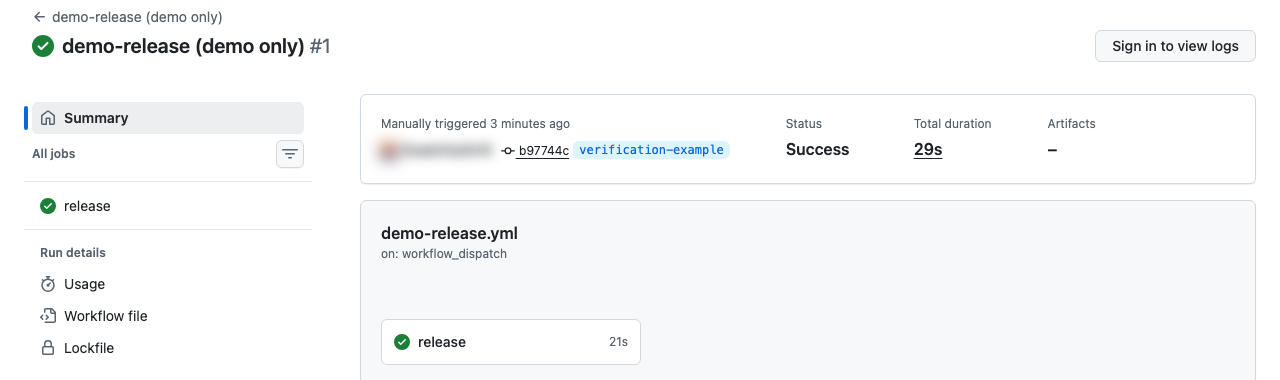
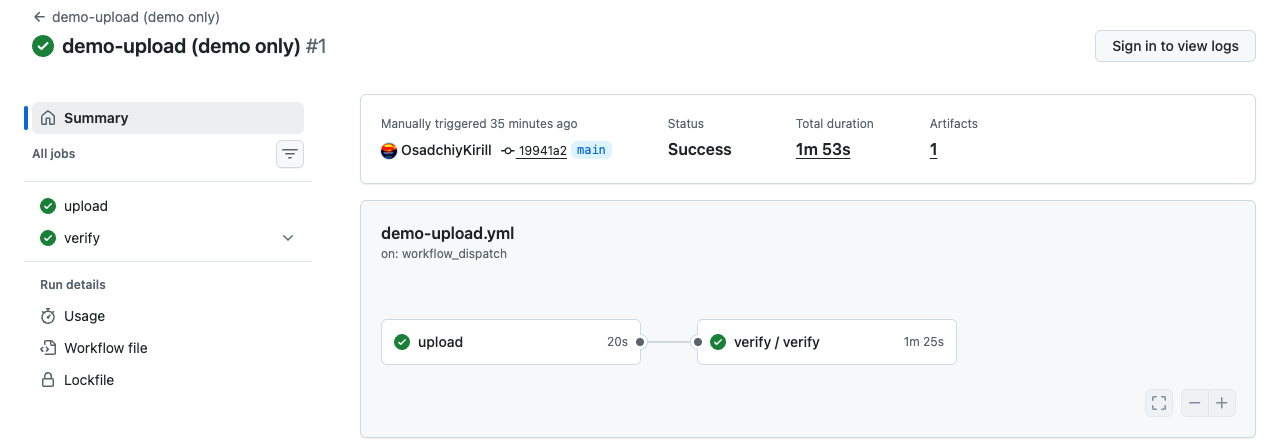
verification-example: job names with the diagram numbers, Not needed (Start A), Start A ran on GitHub
After the first real Start A through workflow_call (fork run 42186715298, 06.11: Service version 4.11.3 uploaded and Verified in 1 min 53 s).
Job names read with the diagram numbers: "1–3 Upload a new demo Service version", "4 Start A: verify-batch", "5–7 Wait, test, decide".
Upload summary: no link to the same run. Report, scenario 4: "Not needed (Start A)".
FAQ Limits: Start A through workflow_call ran on GitHub on 06.11.2026. TRY_IT: steps 4 and 5 with the job names and the measured times.

diff --git a/verification-example/tests/test_verify_batch.py b/verification-example/tests/test_verify_batch.py
@@ -1318,11 +1318,14 @@ def test_the_status_column_has_only_the_four_values(tmp_path):
 @pytest.mark.parametrize('found_by, says, status', [
     ('watch', 'found by the watch in GitHub', 'Checked now'),
     ('run', 'found by ./aos-verify on this computer', 'Checked now'),
-    ('version', 'not needed: started with the Service version', 'Not run')])
+    ('version', 'started with the Service version, so nothing had to find the Verification batch',
+     'Not needed \\(Start A\\)')])
 def test_the_report_says_who_found_the_batch(tmp_path, found_by, says, status):
     write_report(tmp_path, found_by=found_by)
     page = (tmp_path / 'r/report.html').read_text(encoding='utf-8')
     assert says in page and re.search(f'<td>Found automatically \\(discover\\)</td><td><span[^>]*>{status}</span>', page)
+    if found_by == 'version':
+        assert '<span class="s skip">Not needed (Start A)</span>' in page
 
 
 @pytest.mark.parametrize('decision, more, says', [
@@ -1929,8 +1932,8 @@ def test_demo_upload_is_manual_and_says_demo_only():
     assert 'name: demo-upload (demo only)' in text and text.startswith('#') and 'DEMO ONLY' in text.splitlines()[0]
     assert 'aos-signer==2.0.2' in text and 'gh workflow run' not in text and 'actions: write' not in text
     assert 'batch_id' not in workflow_step('d. Say', DEMO) and 'secrets.' not in workflow_step('d. Say', DEMO)
-    assert '$GITHUB_SERVER_URL/$GITHUB_REPOSITORY/actions/runs/$GITHUB_RUN_ID' in workflow_step('d. Say', DEMO)
-    assert 'The decision is in that job' in workflow_step('d. Say', DEMO)
+    assert 'actions/runs' not in workflow_step('d. Say', DEMO)
+    assert 'verify-batch runs next in this run (Start A); its report follows below.' in workflow_step('d. Say', DEMO)
     assert ' approve' not in text.lower() and '--reject' not in text
 
 
@@ -1941,8 +1944,17 @@ def test_demo_upload_starts_verify_batch_exactly_as_readme_step_3():
     snippet = textwrap.dedent(snippet[:snippet.index('```')])
     text = DEMO.read_text(encoding='utf-8')
     job = textwrap.dedent(text[text.index('\n  verify:\n') + 1:])
-    assert job == snippet.lstrip()
+    # only a name added, so that the graph reads with the diagram numbers
+    assert job.replace('  name: "4 Start A: verify-batch"\n', '') == snippet.lstrip()
     assert 'outputs:\n      version: ${{ steps.next.outputs.version }}' in text
+
+
+def test_the_job_names_read_with_the_diagram_numbers():
+    names = re.findall(r'^    name: (.+)$', WORKFLOW.read_text(encoding='utf-8'), re.M)
+    assert names == ['5–7 Wait, test, decide']
+    if DEMO.exists():
+        assert re.findall(r'^    name: (.+)$', DEMO.read_text(encoding='utf-8'), re.M) == [
+            '1–3 Upload a new demo Service version', '"4 Start A: verify-batch"']
 
 
 def run_signer_step(name, signer_output, signer_code, tmp_path):

diff --git a/verification-example/tests/report.py b/verification-example/tests/report.py
@@ -34,7 +34,8 @@ SCENARIOS = [
 ]
 CHECKED, WAITING_LOGIC, NOT_RUN, NEEDS_62, NEXT = ('Checked now', 'Covered by the waiting logic', 'Not run',
                                                    'Needs AosCloud 6.2', 'Next Service version')
-STATUS_CLASS = {CHECKED: 'pass', WAITING_LOGIC: 'skip', NOT_RUN: 'amber', NEEDS_62: 'skip', NEXT: 'skip'}
+NOT_NEEDED = 'Not needed (Start A)'
+STATUS_CLASS = {CHECKED: 'pass', WAITING_LOGIC: 'skip', NOT_RUN: 'amber', NEEDS_62: 'skip', NEXT: 'skip', NOT_NEEDED: 'skip'}
 OBSERVATION_OFF = '60-second observation was off, AOS_WATCH_SECONDS=0'
 # What you can change for each scenario; a scenario that is not here has nothing to change.
 CHANGE_IT = {'B1': 'AOS_WAIT_TIMEOUT', 'B2': 'AOS_WAIT_TIMEOUT', 'C1': 'your_tests.sh', 'C3': 'AOS_WATCH_SECONDS',
@@ -74,7 +75,7 @@ def found_how(found_by: str) -> tuple[str, str]:
         return CHECKED, 'found by the watch in GitHub'
     if found_by == 'run':
         return CHECKED, 'found by ./aos-verify on this computer'
-    return NOT_RUN, 'not needed: started with the Service version'
+    return NOT_NEEDED, 'started with the Service version, so nothing had to find the Verification batch'
 
 
 def coverage(rows: list[dict], observe: int, found: tuple[str, str]) -> dict[str, tuple[str, str]]:

diff --git a/verification-example/TRY_IT.md b/verification-example/TRY_IT.md
@@ -70,20 +70,20 @@ start by hand works.
 **Actions → demo-upload (demo only)**. The green **Run workflow** button is at the top right of the workflow page. A small
 panel opens with **Branch: main**; leave it, and press the green **Run workflow** in that panel.
 
-The run has two jobs, one after the other: `upload`, then `verify`, which is `verify-batch` started exactly as
-[README step 3](README.md#add-it-to-your-repository) shows it (Start A). `upload` is green in about 30 seconds
-(measured: 29 s and 25 s). Its summary shows:
+The run has two jobs, one after the other, named with the numbers of the diagram: **1–3 Upload a new demo Service
+version**, then **4 Start A: verify-batch / 5–7 Wait, test, decide**, which is `verify-batch` started exactly as
+[README step 3](README.md#add-it-to-your-repository) shows it (Start A). The whole run takes about 2 minutes
+(measured: 1 min 53 s). The upload job is green in about 20 seconds; its summary shows:
 
 - the Service version it uploaded: the highest in AosCloud, plus 1 in the last number;
-- the link to this run: `verify` runs next, in the same run;
-- "The decision is in that job; its report follows below on this page."
+- "verify-batch runs next in this run (Start A); its report follows below."
 
-![demo-upload, green](docs/img/try-it-demo-upload.png)
+![demo-upload, both jobs green](docs/img/try-it-demo-upload.png)
 
-## 5. Follow the verify job
+## 5. Follow the verify-batch job
 
-Stay on the same run page: the graph shows `upload` → `verify`. Click `verify` to see its steps. It takes about
-1.5 minutes (measured: 1 min 22 s):
+Stay on the same run page. Click **4 Start A: verify-batch / 5–7 Wait, test, decide** to see its steps. It takes about
+1.5 minutes (measured: 1 min 25 s):
 
 | Step | What you see |
 |---|---|
@@ -91,14 +91,15 @@ Stay on the same run page: the graph shows `upload` → `verify`. Click `verify`
 | 6a, 6b. Test | The built-in checks pass; the partner tests are skipped, as the demo has none. A 60-second observation is part of it |
 | 7a. Decide | `7a. Approve` runs: `approved, now Verified (Valid)` |
 
-The whole report is on the run page, below the job: there is nothing to download.
+The whole report is on the run page, below the jobs: there is nothing to download. GitHub shows it to signed-in
+visitors only; logged out, the page shows the jobs, their steps and the artifact.
 
 - the verdict, in big: **PASS → approved, now Verified** (or FAIL → rejected; report-only: not sent; no decision);
 - Service, Service version, Verification batch, test Units, decision mode and time;
 - every built-in check with PASS, FAIL or SKIP, the partner tests, and the scenarios covered;
 - the last line: `Full report.html and junit.xml: Artifacts at the bottom of this page`.
 
-![verify-batch, green, the report on the run page](docs/img/try-it-verify-batch.png)
+![The verify-batch job, green: steps 5, 6a, 6b and 7a ran, 7b was skipped](docs/img/try-it-verify-batch.png)
 
 If you also have a login: **SP UI → Verification batches** shows the new Service version as **Verified**.
 
@@ -111,7 +112,7 @@ If you also have a login: **SP UI → Verification batches** shows the new Servi
 | `Missing secrets: ...` | Add the secrets it names: step 2. Check the spelling, and add them as secrets, not variables. |
 | `sed: unterminated` or another odd error right after you added the secrets | A value has an extra line or space. Open the secret (pencil), paste the value again, **Update secret**. The jobs trim the ends now, so this is rare. |
 | `The user of AOS_USER_PEM needs the permission deployment_bundles_create` | This certificate may not upload: tell the person who sent you the secrets. |
-| The job `upload` is green, but `verify` is red with `no longer Waiting_validation` | Someone pressed the button in another fork at the same moment and got the same Service version; AosCloud keeps the first upload. Run demo-upload again. |
+| The upload job is green, but the verify-batch job is red with `no longer Waiting_validation` | Someone pressed the button in another fork at the same moment and got the same Service version; AosCloud keeps the first upload. Run demo-upload again. |
 | `TLS error` or `HTTP 401` or `HTTP 403` | A secret has a wrong value, or the demo user was removed. Paste it again, or tell the person who sent you the secrets. |
 | `Unit ... is offline`: the run keeps waiting, up to 30 minutes, then ends red with no decision | The demo Unit is off, so the job rightly decides nothing. Tell the person who sent you the secrets. |
 | `no longer Waiting_validation`, red | Another pipeline decided first, or someone decided in the UI. No harm is done. |

diff --git a/verification-example/docs/how-it-works.md b/verification-example/docs/how-it-works.md
@@ -141,8 +141,9 @@ first, finds the batch decided, and sends nothing. Two repositories on one Servi
 
 | Date | Where | What ran | Result |
 |---|---|---|---|
-| 06.11.2026 | GitHub | A fresh fork, only a browser: `demo-upload`, pressed once, uploaded 4.11.2 and started `verify-batch` | Verified, the `verify-batch` run took 1 min 22 s |
-| 05.11.2026 | GitHub | `demo-upload`, pressed once: it uploaded 4.11.1 and started `verify-batch` (Start A) | Verified about 1.5 min after the upload, with no further step |
+| 06.11.2026 | GitHub | Start A through `workflow_call`, in a fork: `demo-upload`, pressed once, uploaded 4.11.3, and its job `verify` ran `verify-batch` | Verified, the whole run took 1 min 53 s |
+| 06.11.2026 | GitHub | A fresh fork, only a browser: `demo-upload`, pressed once, uploaded 4.11.2 and started `verify-batch` with a dispatch | Verified, the `verify-batch` run took 1 min 22 s |
+| 05.11.2026 | GitHub | `demo-upload`, pressed once: it uploaded 4.11.1 and started `verify-batch` with a dispatch | Verified about 1.5 min after the upload, with no further step |
 | 05.11.2026 | GitHub | Start B: the watch, started by hand, found 4.11.0 | Verified in 1 min 23 s |
 | 30.10.2026 | Terminal | The same three steps | Active on the test Unit in about 15 s, Verified |
 

diff --git a/verification-example/docs/checks.md b/verification-example/docs/checks.md
@@ -8,7 +8,7 @@ yet. Most are already built into `verify_batch.py` and `tests/run_tests.sh`; the
 
 `./aos-verify test` (`bash tests/run_tests.sh`, after `wait`) runs the built-in checks A1, B1, C2 and the observation (C3/C4, 60 s) with no setup, then
 partner tests if `tests/your_tests.sh` exists. Each check is one row in `report/report.html`; the report ends with a
-"Scenarios covered" table with a status for each scenario in that run (Checked now, Covered by the waiting logic, Not run, Next Service version, or Needs AosCloud 6.2) and what you can change for it. The commands below run as they are in
+"Scenarios covered" table with a status for each scenario in that run (Checked now, Covered by the waiting logic, Not run, Not needed (Start A), Next Service version, or Needs AosCloud 6.2) and what you can change for it. The commands below run as they are in
 the folder of the example, after `./aos-verify setup` and `./aos-verify discover`, once you have loaded the values
 (`SERVICE_ID`, `UNIT_ID`, `VERSION`, `BATCH`) into your terminal:
 

diff --git a/verification-example/docs/faq.md b/verification-example/docs/faq.md
@@ -9,7 +9,7 @@ calls, see the [API reference](api.md).
 - GitHub runs schedules on a best-effort basis; it has not yet started the watch in this repository. Use Start A as the main start.
 - AosCloud accepts a second decision on a decided batch. The job reads the state right before its one call; two pipelines on one Service are not locked against each other.
 - A test Unit that is offline means no decision: a person has to look.
-- Not yet run on GitHub: a reject, report-only, Start A through `workflow_call` (`demo-upload` starts the job with a dispatch).
+- Not yet run on GitHub: a reject, report-only. Start A through `workflow_call` ran on GitHub on 06.11.2026 (`demo-upload`).
 - AosCloud versions: proven on 6.1.97; on 6.2.31 only `discover` ran.
 - The watch handles one Service per repository.
 

diff --git a/verification-example/docs/tests.md b/verification-example/docs/tests.md
@@ -74,6 +74,6 @@ pip install pytest requests
 python -m pytest -q
 ```
 
-From the zip you should see `364 passed, 10 skipped` (the 10 need the demo files, which are not in the zip). Without `bash` (plain Windows), the 42 tests that use `bash` are skipped too.
+From the zip you should see `365 passed, 10 skipped` (the 10 need the demo files, which are not in the zip). Without `bash` (plain Windows), the 42 tests that use `bash` are skipped too.
 
 **Next →** [Example checks](checks.md): 12 scenarios we ran on production, with the code
